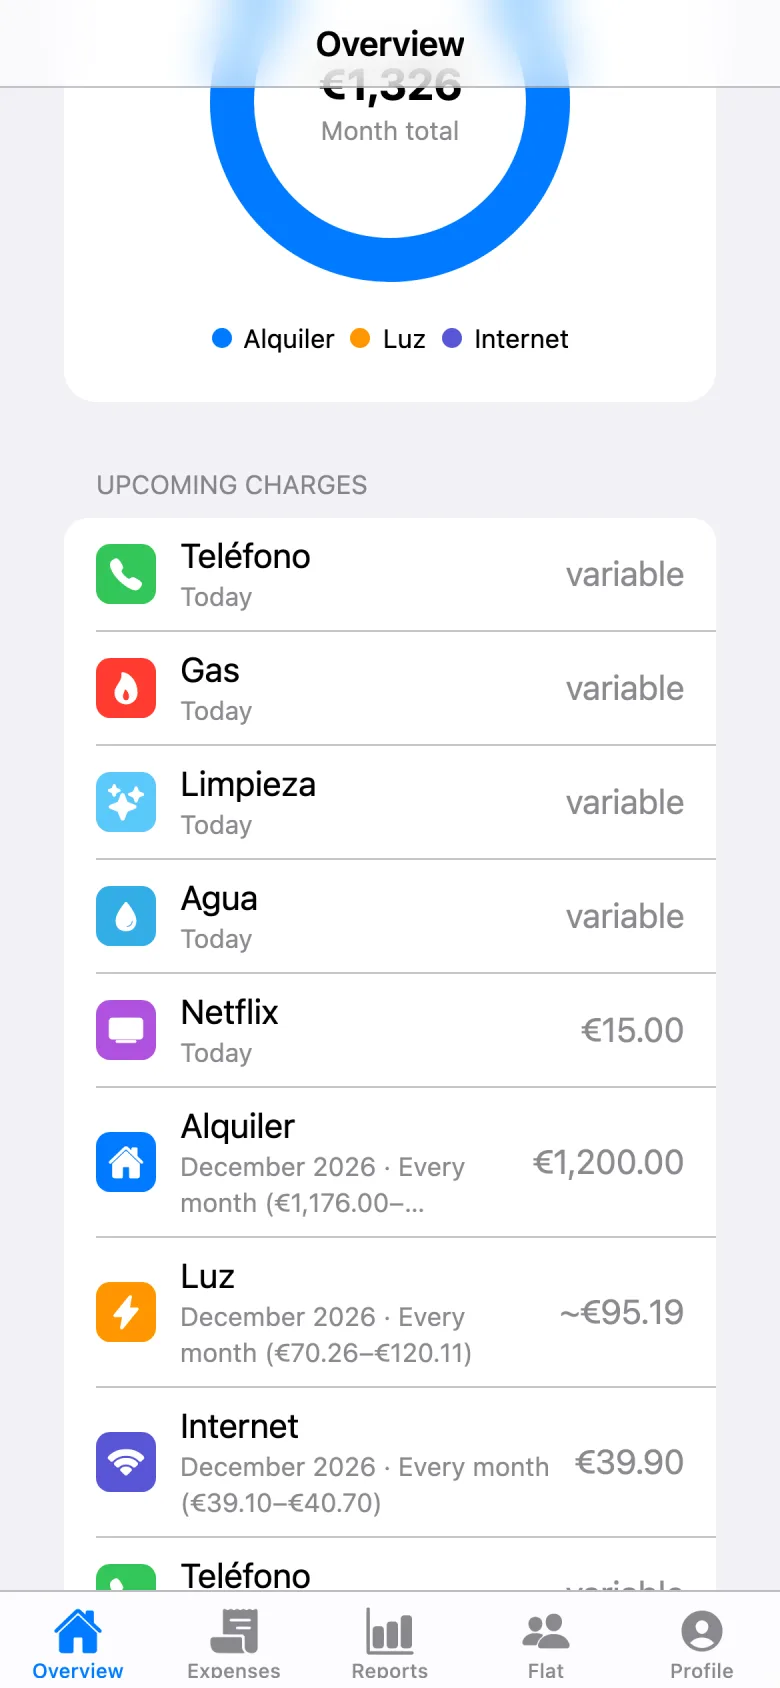
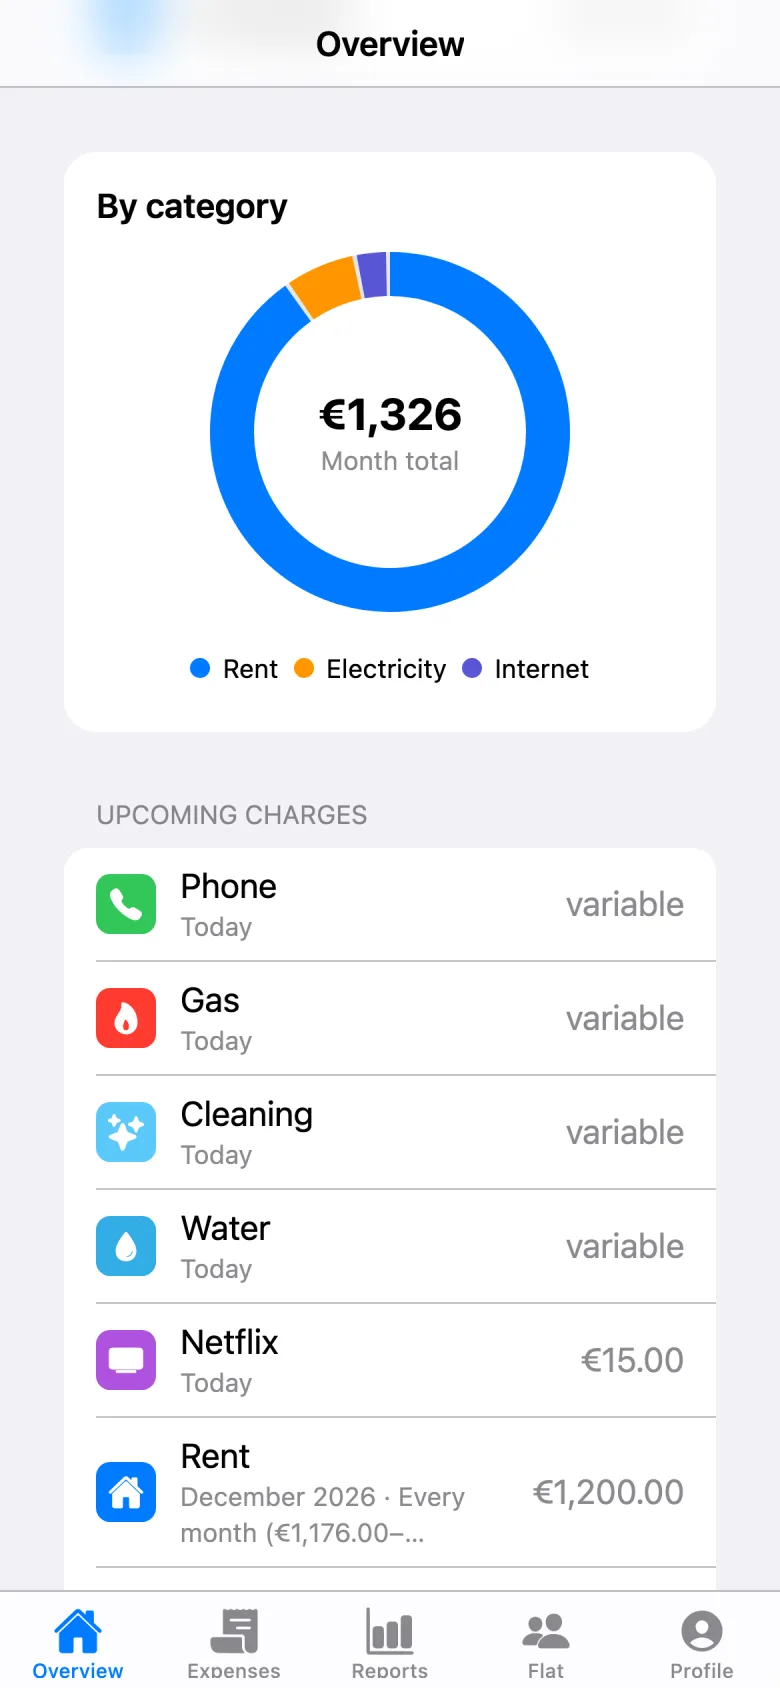
Fix i18n and Flat/Reports UI polish; refresh landing screenshots
- Language picker chips on welcome and create-flat; suggested category names translated at seed time (7 languages)
- Members: role/no-account badges small, under the name (ListRow meta, Badge small)
- Reports: labelled CSV export button; chart title no longer repeats the year; month-only x labels
- Landing: phone frame with home-indicator strip, recaptured screenshots (scripts/capture-landing.mjs)
- e2e: English category names, new language-picker test

diff --git a/e2e/more.spec.ts b/e2e/more.spec.ts
@@ -8,9 +8,9 @@ test.describe('swipe and filters', () => {
   test.beforeEach(async ({ page }) => startFlat(page));
 
   test('swipe-to-delete in the expenses list removes the bill after confirming', async ({ page }) => {
-    await addBill(page, { category: 'Agua', amount: '12' });
+    await addBill(page, { category: 'Water', amount: '12' });
     await tab(page, 'Expenses');
-    const row = page.getByRole('button', { name: /^Agua/ });
+    const row = page.getByRole('button', { name: /^Water/ });
     const box = (await row.boundingBox())!;
     // The swipe only reacts to touch input (a mouse drag is just a click), so drive it through CDP.
     const cdp = await page.context().newCDPSession(page);
@@ -25,23 +25,23 @@ test.describe('swipe and filters', () => {
   });
 
   test('period and category chips filter the expenses list', async ({ page }) => {
-    await addBill(page, { category: 'Luz', amount: '40', notes: 'reciente' });
+    await addBill(page, { category: 'Electricity', amount: '40', notes: 'reciente' });
     await addBill(page, { category: 'Gas', amount: '20', date: '2025-01-15', notes: 'antiguo' });
     await tab(page, 'Expenses');
-    await expect(page.getByRole('button', { name: /^Luz/ })).toBeVisible();
+    await expect(page.getByRole('button', { name: /^Electricity/ })).toBeVisible();
     await expect(page.getByRole('button', { name: /^Gas/ })).toHaveCount(0); // outside "This month"
     await button(page, 'All', true).first().click();
     await expect(page.getByRole('button', { name: /^Gas/ })).toBeVisible();
-    await button(page, /\sLuz$/).click(); // category chip (icon + label; the list rows are named exactly "Luz")
+    await button(page, /\sElectricity$/).click(); // category chip (icon + label; the list rows are named exactly "Electricity")
     await expect(page.getByRole('button', { name: /^Gas/ })).toHaveCount(0);
   });
 
   test('reorders categories with the move buttons', async ({ page }) => {
     await openCategories(page);
-    const first = () => page.getByRole('button', { name: /^(Alquiler|Luz)$/ }).first();
-    await expect(first()).toHaveAccessibleName('Alquiler');
+    const first = () => page.getByRole('button', { name: /^(Rent|Electricity)$/ }).first();
+    await expect(first()).toHaveAccessibleName('Rent');
     await button(page, 'Move down').first().click();
-    await expect(first()).toHaveAccessibleName('Luz');
+    await expect(first()).toHaveAccessibleName('Electricity');
   });
 });
 
@@ -49,14 +49,14 @@ test.describe('files', () => {
   test('attaches a file to a bill and it shows on the bill detail', async ({ page }) => {
     await startFlat(page);
     await button(page, /Add bill$/).click();
-    await button(page, /Luz$/).click();
+    await button(page, /Electricity$/).click();
     await page.getByRole('textbox', { name: 'Amount', exact: true }).fill('30');
     await page.getByRole('textbox', { name: 'Charge date', exact: true }).fill(today());
     await page.locator('input[type=file]').setInputFiles({ name: 'factura.png', mimeType: 'image/png', buffer: PNG });
     await expect(vtext(page, 'factura.png')).toBeVisible();
     await save(page);
     await tab(page, 'Expenses');
-    await page.getByRole('button', { name: /^Luz/ }).click();
+    await page.getByRole('button', { name: /^Electricity/ }).click();
     await expect(vtext(page, /factura\.jpg/)).toBeVisible();
   });
 

diff --git a/src/features/categories/suggested.ts b/src/features/categories/suggested.ts
@@ -1,13 +1,16 @@
 import type { CategoryInput } from '@/lib/db';
+import type { TranslationKey } from '@/i18n';
 
-/** One-tap suggestions offered by the create-house wizard. `anchorDate` is filled in at seed time. */
-export const SUGGESTED_CATEGORIES: Omit<CategoryInput, 'anchorDate' | 'sortOrder'>[] = [
-  { name: 'Alquiler', icon: 'home', color: '#007AFF', amountType: 'FIXED', expectedAmountCents: 120000, intervalUnit: 'MONTH', intervalCount: 1 },
-  { name: 'Luz', icon: 'bolt', color: '#FF9500', amountType: 'VARIABLE', intervalUnit: 'MONTH', intervalCount: 1 },
-  { name: 'Internet', icon: 'wifi', color: '#5856D6', amountType: 'FIXED', expectedAmountCents: 3990, intervalUnit: 'MONTH', intervalCount: 1 },
-  { name: 'Teléfono', icon: 'phone', color: '#34C759', amountType: 'VARIABLE', intervalUnit: 'MONTH', intervalCount: 1 },
-  { name: 'Gas', icon: 'flame', color: '#FF3B30', amountType: 'VARIABLE', intervalUnit: 'MONTH', intervalCount: 2 },
-  { name: 'Limpieza', icon: 'sparkles', color: '#5AC8FA', amountType: 'VARIABLE', intervalUnit: 'MONTH', intervalCount: 1 },
-  { name: 'Agua', icon: 'drop', color: '#32ADE6', amountType: 'VARIABLE', intervalUnit: 'MONTH', intervalCount: 3 },
-  { name: 'Netflix', icon: 'tv', color: '#AF52DE', amountType: 'FIXED', expectedAmountCents: 1500, intervalUnit: 'WEEK', intervalCount: 4 },
+type Suggested = Omit<CategoryInput, 'name' | 'anchorDate' | 'sortOrder'> & { nameKey: TranslationKey };
+
+/** One-tap suggestions offered by the create-house wizard. The name is translated at seed time; `anchorDate` is filled in then too. */
+export const SUGGESTED_CATEGORIES: Suggested[] = [
+  { nameKey: 'suggestedCategories.rent', icon: 'home', color: '#007AFF', amountType: 'FIXED', expectedAmountCents: 120000, intervalUnit: 'MONTH', intervalCount: 1 },
+  { nameKey: 'suggestedCategories.electricity', icon: 'bolt', color: '#FF9500', amountType: 'VARIABLE', intervalUnit: 'MONTH', intervalCount: 1 },
+  { nameKey: 'suggestedCategories.internet', icon: 'wifi', color: '#5856D6', amountType: 'FIXED', expectedAmountCents: 3990, intervalUnit: 'MONTH', intervalCount: 1 },
+  { nameKey: 'suggestedCategories.phone', icon: 'phone', color: '#34C759', amountType: 'VARIABLE', intervalUnit: 'MONTH', intervalCount: 1 },
+  { nameKey: 'suggestedCategories.gas', icon: 'flame', color: '#FF3B30', amountType: 'VARIABLE', intervalUnit: 'MONTH', intervalCount: 2 },
+  { nameKey: 'suggestedCategories.cleaning', icon: 'sparkles', color: '#5AC8FA', amountType: 'VARIABLE', intervalUnit: 'MONTH', intervalCount: 1 },
+  { nameKey: 'suggestedCategories.water', icon: 'drop', color: '#32ADE6', amountType: 'VARIABLE', intervalUnit: 'MONTH', intervalCount: 3 },
+  { nameKey: 'suggestedCategories.netflix', icon: 'tv', color: '#AF52DE', amountType: 'FIXED', expectedAmountCents: 1500, intervalUnit: 'WEEK', intervalCount: 4 },
 ];

diff --git a/e2e/bills.spec.ts b/e2e/bills.spec.ts
@@ -4,10 +4,10 @@ test.describe('bills', () => {
   test.beforeEach(async ({ page }) => startFlat(page));
 
   test('add a bill: shows in overview total, expenses list and by-category chart', async ({ page }) => {
-    await addBill(page, { category: 'Luz', amount: '50,25', notes: 'nota uno' });
+    await addBill(page, { category: 'Electricity', amount: '50,25', notes: 'nota uno' });
     await expect(page.getByText('€50.25').first()).toBeVisible();
     await tab(page, 'Expenses');
-    await expect(page.getByRole('button', { name: /^Luz/ })).toContainText('nota uno');
+    await expect(page.getByRole('button', { name: /^Electricity/ })).toContainText('nota uno');
     await expect(page.getByText(/NOVEMBER 2026 · €50\.25/i)).toBeVisible();
   });
 
@@ -20,20 +20,20 @@ test.describe('bills', () => {
 
   test('saving without an amount does not create a bill', async ({ page }) => {
     await button(page, /Add bill$/).click();
-    await button(page, /Luz$/).click();
+    await button(page, /Electricity$/).click();
     await button(page, 'Save').click();
     await expect(page).toHaveURL(/bills\/new/);
     await expect(button(page, 'Save')).toBeVisible();
   });
 
   test('search narrows the list', async ({ page }) => {
-    await addBill(page, { category: 'Luz', amount: '40', notes: 'enero invierno' });
+    await addBill(page, { category: 'Electricity', amount: '40', notes: 'enero invierno' });
     await addBill(page, { category: 'Gas', amount: '20', notes: 'bombona' });
     await tab(page, 'Expenses');
-    await expect(page.getByRole('button', { name: /^Luz/ })).toBeVisible();
+    await expect(page.getByRole('button', { name: /^Electricity/ })).toBeVisible();
     await expect(page.getByRole('button', { name: /^Gas/ })).toBeVisible();
     await page.getByRole('textbox', { name: 'Search' }).fill('bombona');
-    await expect(page.getByRole('button', { name: /^Luz/ })).toHaveCount(0);
+    await expect(page.getByRole('button', { name: /^Electricity/ })).toHaveCount(0);
     await expect(page.getByRole('button', { name: /^Gas/ })).toBeVisible();
   });
 
@@ -57,9 +57,9 @@ test.describe('bills', () => {
   });
 
   test('deletes a bill from its detail page', async ({ page }) => {
-    await addBill(page, { category: 'Agua', amount: '12' });
+    await addBill(page, { category: 'Water', amount: '12' });
     await tab(page, 'Expenses');
-    await page.getByRole('button', { name: /^Agua/ }).click();
+    await page.getByRole('button', { name: /^Water/ }).click();
     await button(page, /Delete$/).click();
     await confirm(page, 'Delete');
     await expect(page.getByText('No bills yet')).toBeVisible();

diff --git a/landing/index.html b/landing/index.html
@@ -58,9 +58,10 @@ nav .btn{min-height:42px;padding:0 1.1rem;font-size:.92rem}
 @keyframes fade{from{opacity:0;transform:translateY(14px)}to{opacity:1;transform:none}}
 .stage{position:relative;margin-top:3.5rem;display:grid;place-items:center;min-height:620px}
 .stage::before{content:"";position:absolute;width:min(560px,100%);aspect-ratio:1;border-radius:50%;background:radial-gradient(closest-side,#CFE1FF 0,#CFE1FF00 72%);transform:translateY(8%)}
-.phone{--w:min(300px,78vw);width:var(--w);aspect-ratio:390/844;border-radius:calc(var(--w)*.15);background:#0B0C0F;padding:calc(var(--w)*.032);box-shadow:0 0 0 1.5px #2A2D33 inset,0 50px 80px -30px rgba(10,40,100,.45),0 18px 30px -18px rgba(0,0,0,.4);position:relative;will-change:transform}
-.phone .scr{width:100%;height:100%;border-radius:calc(var(--w)*.12);overflow:hidden;position:relative;background:#F2F2F7}
-.phone .scr img{position:absolute;inset:0;width:100%;height:100%;object-fit:cover;object-position:top}
+.phone{--w:min(300px,78vw);width:var(--w);border-radius:calc(var(--w)*.15);background:#0B0C0F;padding:calc(var(--w)*.032);box-shadow:0 0 0 1.5px #2A2D33 inset,0 50px 80px -30px rgba(10,40,100,.45),0 18px 30px -18px rgba(0,0,0,.4);position:relative;will-change:transform}
+.phone .scr{width:100%;aspect-ratio:1170/2640;border-radius:calc(var(--w)*.12);overflow:hidden;position:relative;background:#F9F9F9}
+.phone .scr img{position:absolute;inset:0 0 auto;width:100%;height:auto}
+.phone .scr::after{content:"";position:absolute;bottom:calc(var(--w)*.022);left:50%;width:34%;height:calc(var(--w)*.014);min-height:3px;border-radius:99px;background:#14161A;opacity:.85;transform:translateX(-50%)}
 .phone::after{content:"";position:absolute;top:calc(var(--w)*.055);left:50%;width:30%;height:calc(var(--w)*.075);background:#0B0C0F;border-radius:99px;transform:translateX(-50%)}
 .hero .phone{animation:float 6s ease-in-out infinite;transform:rotate(-3deg)}
 @keyframes float{50%{transform:translateY(-12px) rotate(-1.5deg)}}

diff --git a/src/components/ui/ListRow.tsx b/src/components/ui/ListRow.tsx
@@ -24,6 +24,8 @@ export interface ListRowProps {
   /** Replaces the icon bubble (e.g. an Avatar). */
   leading?: ReactNode;
   trailing?: ReactNode;
+  /** Small tags shown under the subtitle (e.g. role badges); wraps instead of squeezing the title. */
+  meta?: ReactNode;
   chevron?: boolean;
   destructive?: boolean;
   onPress?: () => void;
@@ -31,7 +33,7 @@ export interface ListRowProps {
   accessibilityLabel?: string;
 }
 
-export function ListRow({ title, subtitle, value, icon, iconColor, leading, trailing, chevron, destructive, onPress, swipeActions, accessibilityLabel }: ListRowProps) {
+export function ListRow({ title, subtitle, value, icon, iconColor, leading, trailing, meta, chevron, destructive, onPress, swipeActions, accessibilityLabel }: ListRowProps) {
   const { colors } = useTheme();
   const ref = useRef<Swipeable>(null);
 
@@ -60,6 +62,7 @@ export function ListRow({ title, subtitle, value, icon, iconColor, leading, trai
             {subtitle}
           </Text>
         ) : null}
+        {meta ? <View style={styles.meta}>{meta}</View> : null}
       </View>
       {value ? (
         <Text variant="body" color="secondaryLabel" numberOfLines={1} style={styles.value}>
@@ -108,6 +111,7 @@ const styles = StyleSheet.create({
   row: { minHeight: MIN_TOUCH + 4, paddingHorizontal: spacing.lg, paddingVertical: spacing.sm, flexDirection: 'row', alignItems: 'center', gap: spacing.md },
   bubble: { width: 30, height: 30, borderRadius: 7, alignItems: 'center', justifyContent: 'center' },
   texts: { flex: 1, justifyContent: 'center' },
+  meta: { flexDirection: 'row', flexWrap: 'wrap', gap: 4, marginTop: 3 },
   value: { maxWidth: '45%', textAlign: 'right' },
   actions: { flexDirection: 'row' },
   action: { width: 84, alignItems: 'center', justifyContent: 'center', borderRadius: radii.sm / 2 },

diff --git a/e2e/onboarding.spec.ts b/e2e/onboarding.spec.ts
@@ -8,6 +8,17 @@ test.describe('local onboarding', () => {
     await expect(page.getByText('Join', { exact: false })).toHaveCount(0);
   });
 
+  test('the language picker is visible on first run and names the suggested categories in that language', async ({ page }) => {
+    await page.goto('/');
+    await button(page, 'Español').click();
+    await expect(page.getByText('Crear piso').first()).toBeVisible();
+    await page.getByLabel('Nombre del piso').fill('Casa ES');
+    await button(page, 'Crear piso').click();
+    await expect(page.getByRole('tab', { name: 'Resumen' })).toBeVisible();
+    await expect(page.getByText('Alquiler').first()).toBeVisible();
+    await expect(page.getByText('Rent')).toHaveCount(0);
+  });
+
   test('requires a flat name', async ({ page }) => {
     await page.goto('/');
     await button(page, 'Create flat').click();
@@ -19,13 +30,13 @@ test.describe('local onboarding', () => {
     await expect(page.getByText('Casa Test').first()).toBeVisible();
     await expect(page.getByText('Hi, Roommie')).toBeVisible();
     await expect(page.getByText('UPCOMING CHARGES')).toBeVisible();
-    await expect(page.getByText('Alquiler').first()).toBeVisible();
+    await expect(page.getByText('Rent').first()).toBeVisible();
   });
 
   test('can skip the suggested categories', async ({ page }) => {
     await startFlat(page, 'Sin Categorias', { suggested: false });
     await page.goto('/categories');
-    await expect(page.getByText('Alquiler')).toHaveCount(0);
+    await expect(page.getByText('Rent')).toHaveCount(0);
   });
 
   test('the flat survives a reload (data is on the device)', async ({ page }) => {

diff --git a/app/(app)/(tabs)/house.tsx b/app/(app)/(tabs)/house.tsx
@@ -122,12 +122,12 @@ export default function HouseScreen() {
               leading={<MemberAvatar name={m.displayName} photoPath={m.photoPath} />}
               title={m.userId === authUser?.uid ? `${m.displayName} (${t('hub.youTag')})` : m.displayName}
               subtitle={`${t('hub.joined')} ${formatDate(m.joinedAt.slice(0, 10), locale, 'medium')}${m.removedAt ? ` → ${formatDate(m.removedAt.slice(0, 10), locale, 'medium')}` : ''}`}
-              trailing={
-                <View style={{ flexDirection: 'row', gap: spacing.xs }}>
-                  {isGuestMember(m) ? <Badge label={t('hub.noAccount')} tone="neutral" /> : null}
-                  {m.status === 'REMOVED' ? <Badge label={t('house.removed')} tone="red" /> : null}
-                  <Badge label={m.role === 'ADMIN' ? t('house.admin') : t('house.roommate')} tone={m.role === 'ADMIN' ? 'blue' : 'neutral'} />
-                </View>
+              meta={
+                <>
+                  <Badge small label={m.role === 'ADMIN' ? t('house.admin') : t('house.roommate')} tone={m.role === 'ADMIN' ? 'blue' : 'neutral'} />
+                  {isGuestMember(m) ? <Badge small label={t('hub.noAccount')} tone="neutral" /> : null}
+                  {m.status === 'REMOVED' ? <Badge small label={t('house.removed')} tone="red" /> : null}
+                </>
               }
               chevron={isAdmin}
               onPress={isAdmin ? () => router.push({ pathname: '/members/[id]', params: { id: m.id } }) : undefined}

diff --git a/src/features/reports/components/OverviewSection.tsx b/src/features/reports/components/OverviewSection.tsx
@@ -7,7 +7,7 @@ import { Card, Chip, EmptyState, isIconName, ListRow, Section, Text, type IconNa
 import { getEffectiveDate } from '@/features/finance';
 import { useT } from '@/i18n';
 import { addMonthsToKey } from '@/lib/dates';
-import { formatDate, formatMoney, formatMonth } from '@/lib/format';
+import { formatDate, formatMoney, formatMonth, formatMonthName } from '@/lib/format';
 import { spacing } from '@/theme';
 
 import { lastNMonths, lookupMonth, monthlySeries, totalsByMonth } from '..';
@@ -46,7 +46,7 @@ export function OverviewSection({ data }: { data: ReportData }) {
 
   const chartData = series.map((row) => ({
     key: row.month,
-    label: formatMonth(row.month, locale, 'short'),
+    label: formatMonthName(Number(row.month.slice(5, 7)), locale, 'short'), // month only: 12 bars are too narrow for "Jan 2026"
     segments: Object.entries(row.byCategory).map(([categoryId, value]) => ({
       key: categoryId,
       value,
@@ -83,7 +83,7 @@ export function OverviewSection({ data }: { data: ReportData }) {
       </ScrollView>
 
       <Card>
-        <Text variant="headline">{`${formatMonth(months[0], locale, 'short')} ${months[0].slice(0, 4)} – ${formatMonth(months[11], locale, 'short')} ${months[11].slice(0, 4)}`}</Text>
+        <Text variant="headline">{`${formatMonth(months[0], locale, 'short')} – ${formatMonth(months[11], locale, 'short')}`}</Text>
         <StackedBarChart
           data={chartData}
           selectedKey={selected}

diff --git a/src/components/ui/Badge.tsx b/src/components/ui/Badge.tsx
@@ -7,7 +7,7 @@ import { Text } from './Text';
 
 export type BadgeTone = 'neutral' | 'blue' | 'green' | 'red' | 'orange';
 
-export function Badge({ label, tone = 'neutral', icon, color }: { label: string; tone?: BadgeTone; icon?: string; color?: string }) {
+export function Badge({ label, tone = 'neutral', icon, color, small }: { label: string; tone?: BadgeTone; icon?: string; color?: string; small?: boolean }) {
   const { colors } = useTheme();
   const base = color ?? (tone === 'neutral' ? colors.gray : colors[tone]);
   return (
@@ -15,8 +15,8 @@ export function Badge({ label, tone = 'neutral', icon, color }: { label: string;
       style={{
         backgroundColor: `${base}26`,
         borderRadius: 999,
-        paddingHorizontal: spacing.sm,
-        paddingVertical: 2,
+        paddingHorizontal: small ? 6 : spacing.sm,
+        paddingVertical: small ? 1 : 2,
         alignSelf: 'flex-start',
         flexDirection: 'row',
         alignItems: 'center',
@@ -24,7 +24,7 @@ export function Badge({ label, tone = 'neutral', icon, color }: { label: string;
       }}
     >
       {icon ? <Icon name={icon} size={12} color={base} /> : null}
-      <Text variant="caption" style={{ color: base, fontWeight: '600' }}>
+      <Text variant="caption" style={{ color: base, fontWeight: '600', ...(small ? { fontSize: 10, lineHeight: 14 } : null) }}>
         {label}
       </Text>
     </View>

diff --git a/e2e/reports.spec.ts b/e2e/reports.spec.ts
@@ -9,7 +9,7 @@ test.describe('reports', () => {
 
   test('every report section renders with bills and the numbers add up', async ({ page }) => {
     await startFlat(page);
-    await addBill(page, { category: 'Luz', amount: '60' });
+    await addBill(page, { category: 'Electricity', amount: '60' });
     await addBill(page, { category: 'Gas', amount: '40' });
     await tab(page, 'Reports');
 
@@ -19,7 +19,7 @@ test.describe('reports', () => {
     await button(page, 'You vs roommates').click();
     await expect(button(page, 'All time')).toBeVisible();
     await button(page, 'Category').click();
-    await expect(button(page, /Luz$/)).toBeVisible();
+    await expect(button(page, /Electricity$/)).toBeVisible();
     await button(page, 'Seasonality').click();
     await expect(button(page, 'All')).toBeVisible();
     await button(page, 'Lookup').click();
@@ -33,7 +33,7 @@ test.describe('reports', () => {
 
   test('exports the bills as CSV', async ({ page }) => {
     await startFlat(page);
-    await addBill(page, { category: 'Luz', amount: '60' });
+    await addBill(page, { category: 'Electricity', amount: '60' });
     await tab(page, 'Reports');
     const [download] = await Promise.all([page.waitForEvent('download'), button(page, 'Export CSV').first().click()]);
     expect(download.suggestedFilename()).toMatch(/\.csv$/);

diff --git a/src/features/categories/hooks.ts b/src/features/categories/hooks.ts
@@ -1,5 +1,6 @@
 import { useMutation, useQuery, useQueryClient } from '@tanstack/react-query';
 
+import { useT } from '@/i18n';
 import { api, type CategoryInput } from '@/lib/db';
 import { optimisticOptions } from '@/lib/optimistic';
 import { qk } from '@/lib/queryKeys';
@@ -71,15 +72,16 @@ export function useReorderCategories(houseId: string) {
   });
 }
 
-/** Seeds the suggested categories (Alquiler, Luz, Internet, …). Existing names are skipped server-side by the unique key. */
+/** Seeds the suggested categories (rent, electricity, internet, …) named in the UI language. Existing names are skipped server-side by the unique key. */
 export function useSeedSuggestedCategories(houseId: string) {
   const qc = useQueryClient();
+  const { t } = useT();
   return useMutation({
     mutationFn: async () => {
       const anchorDate = new Date().toISOString().slice(0, 10);
       await Promise.all(
-        SUGGESTED_CATEGORIES.map((c, sortOrder) =>
-          api.createCategory({ ...c, anchorDate, sortOrder, houseId, id: newId() }).catch(() => undefined),
+        SUGGESTED_CATEGORIES.map(({ nameKey, ...c }, sortOrder) =>
+          api.createCategory({ ...c, name: t(nameKey), anchorDate, sortOrder, houseId, id: newId() }).catch(() => undefined),
         ),
       );
     },

diff --git a/src/features/houses/seed.ts b/src/features/houses/seed.ts
@@ -1,15 +1,18 @@
 import type { QueryClient } from '@tanstack/react-query';
 
+import type { TranslationKey } from '@/i18n';
 import { SUGGESTED_CATEGORIES } from '@/features/categories/suggested';
 import { api } from '@/lib/db';
 import { qk } from '@/lib/queryKeys';
 import { newId } from '@/lib/storage';
 
-/** Creates the suggested categories for a freshly created house (used by the onboarding wizard). */
-export async function seedSuggestedCategories(qc: QueryClient, houseId: string): Promise<void> {
+/** Creates the suggested categories for a freshly created house, named in the UI language (used by the onboarding wizard). */
+export async function seedSuggestedCategories(qc: QueryClient, houseId: string, t: (key: TranslationKey) => string): Promise<void> {
   const anchorDate = new Date().toISOString().slice(0, 10);
   await Promise.all(
-    SUGGESTED_CATEGORIES.map((c, sortOrder) => api.createCategory({ ...c, anchorDate, sortOrder, houseId, id: newId() }).catch(() => undefined)),
+    SUGGESTED_CATEGORIES.map(({ nameKey, ...c }, sortOrder) =>
+      api.createCategory({ ...c, name: t(nameKey), anchorDate, sortOrder, houseId, id: newId() }).catch(() => undefined),
+    ),
   );
   await qc.invalidateQueries({ queryKey: qk.categories(houseId) });
 }
